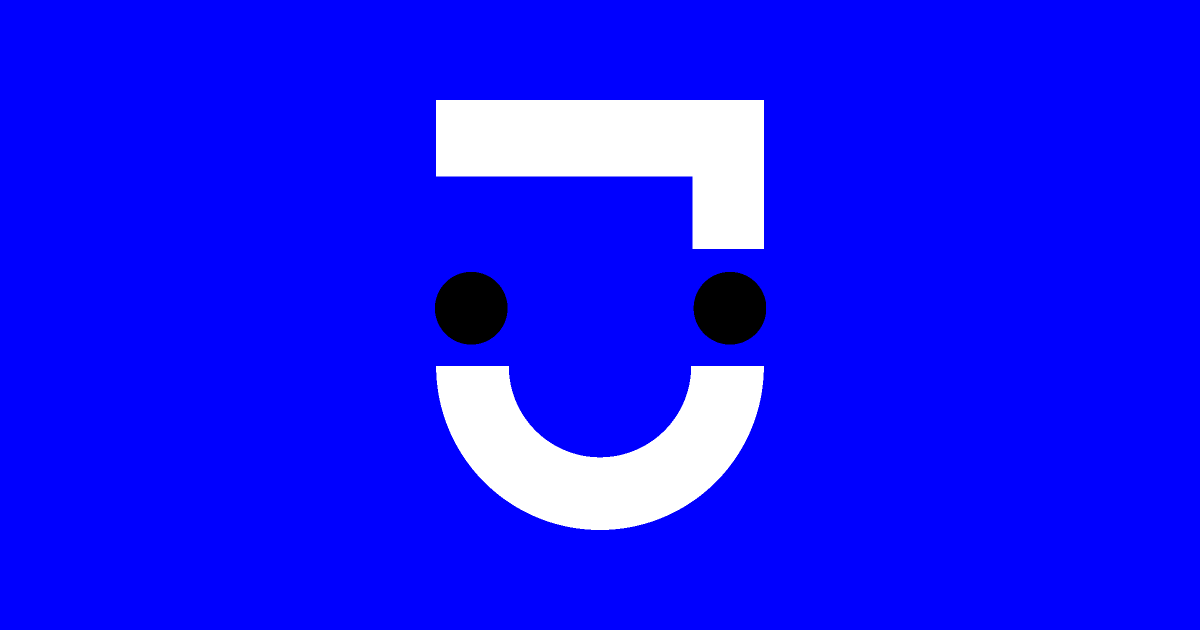
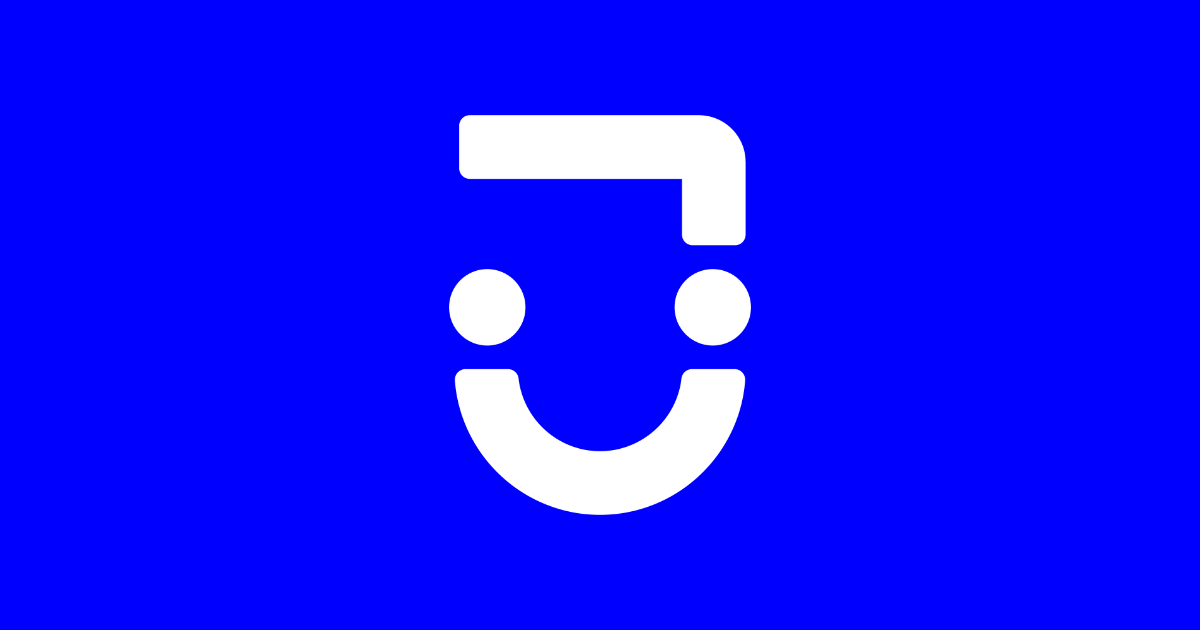
Adota o logotipo oficial da marca e corrige o gênero de Jogamos
- Substitui o símbolo que eu havia desenhado em SVG pelo arquivo oficial
  (Ativo 7, versão branca). O oficial tem cantos arredondados; o meu
  desenho tinha cantos retos, o que descaracterizava a marca.
- Wordmark passa de Archivo para Poppins, que reproduz o desenho
  geométrico do logotipo. Carregada com subset de caracteres (~2 KB).
- Favicon e imagem de compartilhamento regerados a partir do símbolo oficial.
- Jogamos passa a ser tratado no masculino em toda a página: artigos,
  contrações (da/pela) e concordância de adjetivos ('não é afiliada'
  vira 'não é afiliado'; 'não é a vendedora' vira 'não é o vendedor').
- 'por um preço que valha' vira 'por um preço bom'.
- Aspas do JSON-LD alinhadas com o texto visível, para o FAQ do Google.

Changed region(s): [[0.3392, 0.1508, 0.6475, 0.8444], [0.4625, 0.6635, 0.555, 0.7238], [0.4317, 0.6333, 0.4625, 0.6937]]

diff --git a/index.html b/index.html
@@ -7,7 +7,7 @@
 
 <!-- ============================ SEO / META ============================ -->
 <title>Grupo de Ofertas no WhatsApp | Jogamos Shop</title>
-<meta name="description" content="Entre no grupo de ofertas da Jogamos Shop no WhatsApp e receba promoções de tênis, chuteiras, bolas e acessórios esportivos direto no seu celular. Entrada gratuita.">
+<meta name="description" content="Entre no grupo de ofertas do Jogamos Shop no WhatsApp e receba promoções de tênis, chuteiras, bolas e acessórios esportivos direto no seu celular. Entrada gratuita.">
 <meta name="robots" content="index, follow, max-image-preview:large, max-snippet:-1">
 <meta name="author" content="Jogamos Shop">
 
@@ -30,14 +30,15 @@
 <meta name="twitter:description" content="Ofertas, novidades e oportunidades de material esportivo direto no seu WhatsApp. Entrada gratuita.">
 <meta name="twitter:image" content="https://jogamos-shop.vercel.app/assets/img/og-jogamos-shop.png">
 
-<link rel="icon" href="assets/img/favicon.svg" type="image/svg+xml">
-<link rel="apple-touch-icon" href="assets/img/jogamos-mark.png">
+<link rel="icon" href="assets/img/favicon.png" type="image/png" sizes="512x512">
+<link rel="apple-touch-icon" href="assets/img/favicon.png">
 
 <!-- ====================== FONTES (crítico, 1 request) ================== -->
 <link rel="preconnect" href="https://fonts.googleapis.com">
 <link rel="preconnect" href="https://fonts.gstatic.com" crossorigin>
 <link rel="preload" as="style" href="https://fonts.googleapis.com/css2?family=Archivo:wdth,wght@75..100,400..900&family=Inter:wght@400;500;600&display=swap">
 <link rel="stylesheet" href="https://fonts.googleapis.com/css2?family=Archivo:wdth,wght@75..100,400..900&family=Inter:wght@400;500;600&display=swap">
+<link rel="stylesheet" href="https://fonts.googleapis.com/css2?family=Poppins:wght@700&text=jogamshp&display=swap">
 
 <link rel="stylesheet" href="assets/css/style.css">
 
@@ -54,11 +55,11 @@
       "url": "https://jogamos-shop.vercel.app/",
       "logo": {
         "@type": "ImageObject",
-        "url": "https://jogamos-shop.vercel.app/assets/img/jogamos-mark.png",
+        "url": "https://jogamos-shop.vercel.app/assets/img/favicon.png",
         "width": 1000,
         "height": 1000
       },
-      "description": "Curadoria de produtos esportivos e comunidade de esporte em grupo. A Jogamos Shop reúne ofertas, novidades e recomendações de material esportivo em um grupo no WhatsApp.",
+      "description": "Curadoria de produtos esportivos e comunidade de esporte em grupo. O Jogamos Shop reúne ofertas, novidades e recomendações de material esportivo em um grupo no WhatsApp.",
       "email": "appjogamos@gmail.com",
       "areaServed": { "@type": "Country", "name": "Brasil" },
       "address": {
@@ -86,7 +87,7 @@
       "@id": "https://jogamos-shop.vercel.app/#webpage",
       "url": "https://jogamos-shop.vercel.app/",
       "name": "Grupo de Ofertas no WhatsApp | Jogamos Shop",
-      "description": "Entre no grupo de ofertas da Jogamos Shop no WhatsApp e receba promoções de material esportivo direto no seu celular.",
+      "description": "Entre no grupo de ofertas do Jogamos Shop no WhatsApp e receba promoções de material esportivo direto no seu celular.",
       "isPartOf": { "@id": "https://jogamos-shop.vercel.app/#website" },
       "about": { "@id": "https://jogamos-shop.vercel.app/#organization" },
       "inLanguage": "pt-BR"
@@ -104,17 +105,17 @@
       "mainEntity": [
         {
           "@type": "Question",
-          "name": "O que é o grupo da Jogamos Shop?",
-          "acceptedAnswer": { "@type": "Answer", "text": "É um grupo no WhatsApp criado pela Jogamos Shop para reunir em um só lugar ofertas, lançamentos e recomendações de produtos esportivos. Em vez de você procurar promoção em vários sites, as oportunidades chegam direto no seu celular." }
+          "name": "O que é o grupo do Jogamos Shop?",
+          "acceptedAnswer": { "@type": "Answer", "text": "É um grupo no WhatsApp criado pelo Jogamos Shop para reunir em um só lugar ofertas, lançamentos e recomendações de produtos esportivos. Em vez de você procurar promoção em vários sites, as oportunidades chegam direto no seu celular." }
         },
         {
           "@type": "Question",
           "name": "Como faço para entrar no grupo de ofertas?",
-          "acceptedAnswer": { "@type": "Answer", "text": "Toque em qualquer botão \"Entrar no grupo do WhatsApp\" desta página. Você vai direto para o convite do grupo e entra com um toque. Não precisa preencher formulário nem informar e-mail." }
+          "acceptedAnswer": { "@type": "Answer", "text": "Toque em qualquer botão “Entrar no grupo do WhatsApp” desta página. Você vai direto para o convite do grupo e entra com um toque. Não precisa preencher formulário nem informar e-mail." }
         },
         {
           "@type": "Question",
-          "name": "O grupo da Jogamos Shop é gratuito?",
+          "name": "O grupo do Jogamos Shop é gratuito?",
           "acceptedAnswer": { "@type": "Answer", "text": "Sim. Entrar e permanecer no grupo é gratuito. Você não paga nada para receber as ofertas e pode sair quando quiser." }
         },
         {
@@ -125,17 +126,17 @@
         {
           "@type": "Question",
           "name": "Vou receber muitas mensagens?",
-          "acceptedAnswer": { "@type": "Answer", "text": "Não. O grupo é moderado: só a equipe da Jogamos Shop publica, e apenas quando existe algo realmente relevante. Você também pode silenciar as notificações e conferir quando quiser." }
+          "acceptedAnswer": { "@type": "Answer", "text": "Não. O grupo é moderado: só a equipe do Jogamos Shop publica, e apenas quando existe algo realmente relevante. Você também pode silenciar as notificações e conferir quando quiser." }
         },
         {
           "@type": "Question",
           "name": "Como faço para sair do grupo?",
-          "acceptedAnswer": { "@type": "Answer", "text": "Abra a conversa no WhatsApp, toque no nome do grupo e escolha \"Sair do grupo\". A saída é imediata e você pode voltar depois usando o link desta página." }
+          "acceptedAnswer": { "@type": "Answer", "text": "Abra a conversa no WhatsApp, toque no nome do grupo e escolha “Sair do grupo”. A saída é imediata e você pode voltar depois usando o link desta página." }
         },
         {
           "@type": "Question",
-          "name": "Onde encontro as novidades da Jogamos Shop?",
-          "acceptedAnswer": { "@type": "Answer", "text": "No grupo do WhatsApp, que recebe tudo primeiro, e no Instagram @jogamosshop. A Jogamos Shop faz parte da Jogamos, comunidade esportiva de Belo Horizonte." }
+          "name": "Onde encontro as novidades do Jogamos Shop?",
+          "acceptedAnswer": { "@type": "Answer", "text": "No grupo do WhatsApp, que recebe tudo primeiro, e no Instagram @jogamosshop. O Jogamos Shop faz parte do Jogamos, comunidade esportiva de Belo Horizonte." }
         }
       ]
     }
@@ -153,12 +154,7 @@
 <header class="nav" id="nav">
   <div class="nav__in">
     <a class="brand" href="#topo" aria-label="Jogamos Shop — início">
-      <svg class="mark" viewBox="0 0 1000 1000" aria-hidden="true" focusable="false">
-        <path class="mark__a" d="M234 146 H766 V388 H650 V270 H234 Z"/>
-        <path class="mark__a" d="M293 578 A207 207 0 0 0 707 578" fill="none" stroke-width="118"/>
-        <circle class="mark__b" cx="291" cy="484" r="59"/>
-        <circle class="mark__b" cx="711" cy="484" r="59"/>
-      </svg>
+      <img class="mark" src="assets/img/logo-simbolo.png" alt="" width="96" height="128" aria-hidden="true" decoding="async">
       <span class="brand__txt">Jogamos<i>Shop</i></span>
     </a>
 
@@ -202,7 +198,7 @@
     </h1>
 
     <p class="hero__lede">
-      A <strong>Jogamos Shop</strong> mantém um grupo no WhatsApp onde ofertas,
+      O <strong>Jogamos Shop</strong> mantém um grupo no WhatsApp onde ofertas,
       lançamentos e oportunidades de material esportivo chegam primeiro.
       Sem caçar promoção em dez sites. Sem perder o que era bom.
     </p>
@@ -247,9 +243,9 @@
     <div class="idea__body">
       <div class="idea__txt" data-reveal>
         <p>
-          A Jogamos nasceu de gente que corre, joga e treina junta em BH.
+          O Jogamos nasceu de gente que corre, joga e treina junta em BH.
           E toda semana aparecia a mesma pergunta no meio do grupo:
-          <em>“onde eu acho isso por um preço que valha?”</em>
+          <em>“onde eu acho isso por um preço bom?”</em>
         </p>
         <p>
           O grupo do WhatsApp é a resposta. Um canal só para quando surge
@@ -375,7 +371,7 @@
     </h2>
 
     <p class="proof__lede" data-reveal>
-      A Jogamos Shop faz parte da <strong>Jogamos</strong>, comunidade esportiva de
+      O Jogamos Shop faz parte do <strong>Jogamos</strong>, comunidade esportiva de
       Belo Horizonte que organiza corridas leves, jogos e treinos abertos —
       para quem quer começar ou recomeçar. O grupo de ofertas é a extensão
       natural disso: gente do esporte indicando coisa boa para gente do esporte.
@@ -483,12 +479,7 @@
       <div class="phone__body">
         <div class="phone__notch"></div>
         <div class="phone__bar">
-          <svg class="mark mark--tiny" viewBox="0 0 1000 1000">
-            <path class="mark__a" d="M234 146 H766 V388 H650 V270 H234 Z"/>
-            <path class="mark__a" d="M293 578 A207 207 0 0 0 707 578" fill="none" stroke-width="118"/>
-            <circle class="mark__b" cx="291" cy="484" r="59"/>
-            <circle class="mark__b" cx="711" cy="484" r="59"/>
-          </svg>
+          <img class="mark mark--tiny" src="assets/img/logo-simbolo.png" alt="" width="96" height="128" aria-hidden="true" decoding="async">
           <span><b>Jogamos Shop · Ofertas</b><i>online</i></span>
         </div>
         <div class="phone__feed">
@@ -522,15 +513,15 @@
 
     <div class="acc" id="acc">
       <div class="acc__i">
-        <h3><button type="button" class="acc__q" aria-expanded="false" aria-controls="a1" id="q1">O que é o grupo da Jogamos Shop?<span class="acc__ico" aria-hidden="true"></span></button></h3>
-        <div class="acc__a" id="a1" role="region" aria-labelledby="q1"><div><p>É um grupo no WhatsApp criado pela Jogamos Shop para reunir em um só lugar ofertas, lançamentos e recomendações de produtos esportivos. Em vez de você procurar promoção em vários sites, as oportunidades chegam direto no seu celular.</p></div></div>
+        <h3><button type="button" class="acc__q" aria-expanded="false" aria-controls="a1" id="q1">O que é o grupo do Jogamos Shop?<span class="acc__ico" aria-hidden="true"></span></button></h3>
+        <div class="acc__a" id="a1" role="region" aria-labelledby="q1"><div><p>É um grupo no WhatsApp criado pelo Jogamos Shop para reunir em um só lugar ofertas, lançamentos e recomendações de produtos esportivos. Em vez de você procurar promoção em vários sites, as oportunidades chegam direto no seu celular.</p></div></div>
       </div>
       <div class="acc__i">
         <h3><button type="button" class="acc__q" aria-expanded="false" aria-controls="a2" id="q2">Como faço para entrar no grupo de ofertas?<span class="acc__ico" aria-hidden="true"></span></button></h3>
         <div class="acc__a" id="a2" role="region" aria-labelledby="q2"><div><p>Toque em qualquer botão “Entrar no grupo do WhatsApp” desta página. Você vai direto para o convite do grupo e entra com um toque. Não precisa preencher formulário nem informar e-mail.</p></div></div>
       </div>
       <div class="acc__i">
-        <h3><button type="button" class="acc__q" aria-expanded="false" aria-controls="a3" id="q3">O grupo da Jogamos Shop é gratuito?<span class="acc__ico" aria-hidden="true"></span></button></h3>
+        <h3><button type="button" class="acc__q" aria-expanded="false" aria-controls="a3" id="q3">O grupo do Jogamos Shop é gratuito?<span class="acc__ico" aria-hidden="true"></span></button></h3>
         <div class="acc__a" id="a3" role="region" aria-labelledby="q3"><div><p>Sim. Entrar e permanecer no grupo é gratuito. Você não paga nada para receber as ofertas e pode sair quando quiser.</p></div></div>
       </div>
       <div class="acc__i">
@@ -539,15 +530,15 @@
       </div>
       <div class="acc__i">
         <h3><button type="button" class="acc__q" aria-expanded="false" aria-controls="a5" id="q5">Vou receber muitas mensagens?<span class="acc__ico" aria-hidden="true"></span></button></h3>
-        <div class="acc__a" id="a5" role="region" aria-labelledby="q5"><div><p>Não. O grupo é moderado: só a equipe da Jogamos Shop publica, e apenas quando existe algo realmente relevante. Você também pode silenciar as notificações e conferir quando quiser.</p></div></div>
+        <div class="acc__a" id="a5" role="region" aria-labelledby="q5"><div><p>Não. O grupo é moderado: só a equipe do Jogamos Shop publica, e apenas quando existe algo realmente relevante. Você também pode silenciar as notificações e conferir quando quiser.</p></div></div>
       </div>
       <div class="acc__i">
         <h3><button type="button" class="acc__q" aria-expanded="false" aria-controls="a6" id="q6">Como faço para sair do grupo?<span class="acc__ico" aria-hidden="true"></span></button></h3>
         <div class="acc__a" id="a6" role="region" aria-labelledby="q6"><div><p>Abra a conversa no WhatsApp, toque no nome do grupo e escolha “Sair do grupo”. A saída é imediata e você pode voltar depois usando o link desta página.</p></div></div>
       </div>
       <div class="acc__i">
-        <h3><button type="button" class="acc__q" aria-expanded="false" aria-controls="a7" id="q7">Onde encontro as novidades da Jogamos Shop?<span class="acc__ico" aria-hidden="true"></span></button></h3>
-        <div class="acc__a" id="a7" role="region" aria-labelledby="q7"><div><p>No grupo do WhatsApp, que recebe tudo primeiro, e no Instagram <a data-ig href="https://www.instagram.com/jogamosshop/" target="_blank" rel="noopener">@jogamosshop</a>. A Jogamos Shop faz parte da Jogamos, comunidade esportiva de Belo Horizonte.</p></div></div>
+        <h3><button type="button" class="acc__q" aria-expanded="false" aria-controls="a7" id="q7">Onde encontro as novidades do Jogamos Shop?<span class="acc__ico" aria-hidden="true"></span></button></h3>
+        <div class="acc__a" id="a7" role="region" aria-labelledby="q7"><div><p>No grupo do WhatsApp, que recebe tudo primeiro, e no Instagram <a data-ig href="https://www.instagram.com/jogamosshop/" target="_blank" rel="noopener">@jogamosshop</a>. O Jogamos Shop faz parte do Jogamos, comunidade esportiva de Belo Horizonte.</p></div></div>
       </div>
     </div>
   </div>
@@ -582,12 +573,7 @@
   <div class="wrap foot__in">
     <div class="foot__brand">
       <a class="brand" href="#topo" aria-label="Jogamos Shop — voltar ao topo">
-        <svg class="mark" viewBox="0 0 1000 1000" aria-hidden="true" focusable="false">
-          <path class="mark__a" d="M234 146 H766 V388 H650 V270 H234 Z"/>
-          <path class="mark__a" d="M293 578 A207 207 0 0 0 707 578" fill="none" stroke-width="118"/>
-          <circle class="mark__b" cx="291" cy="484" r="59"/>
-          <circle class="mark__b" cx="711" cy="484" r="59"/>
-        </svg>
+        <img class="mark" src="assets/img/logo-simbolo.png" alt="" width="96" height="128" aria-hidden="true" decoding="async">
         <span class="brand__txt">Jogamos<i>Shop</i></span>
       </a>
       <p>Conectamos você ao esporte.<br>Belo Horizonte · MG</p>
@@ -624,7 +610,7 @@
 
   <div class="wrap foot__end">
     <p><span id="year">2026</span> Jogamos Shop. Todos os direitos reservados.</p>
-    <p>Jogamos Shop não é afiliada ao WhatsApp ou à Meta Platforms, Inc.</p>
+    <p>Jogamos Shop não é afiliado ao WhatsApp ou à Meta Platforms, Inc.</p>
   </div>
 </footer>
 

diff --git a/termos-de-uso.html b/termos-de-uso.html
@@ -4,13 +4,14 @@
 <meta charset="UTF-8">
 <meta name="viewport" content="width=device-width, initial-scale=1">
 <title>Termos de Uso | Jogamos Shop</title>
-<meta name="description" content="Termos de uso da página e do grupo de ofertas no WhatsApp da Jogamos Shop.">
+<meta name="description" content="Termos de uso da página e do grupo de ofertas no WhatsApp do Jogamos Shop.">
 <meta name="robots" content="index, follow">
 <link rel="canonical" href="https://jogamos-shop.vercel.app/termos-de-uso.html">
-<link rel="icon" href="assets/img/favicon.svg" type="image/svg+xml">
+<link rel="icon" href="assets/img/favicon.png" type="image/png" sizes="512x512">
 <link rel="preconnect" href="https://fonts.googleapis.com">
 <link rel="preconnect" href="https://fonts.gstatic.com" crossorigin>
 <link rel="stylesheet" href="https://fonts.googleapis.com/css2?family=Archivo:wdth,wght@75..100,400..900&family=Inter:wght@400;500;600&display=swap">
+<link rel="stylesheet" href="https://fonts.googleapis.com/css2?family=Poppins:wght@700&text=jogamshp&display=swap">
 <link rel="stylesheet" href="assets/css/style.css">
 </head>
 <body>
@@ -18,11 +19,7 @@
 <header class="nav is-stuck">
   <div class="nav__in">
     <a class="brand" href="index.html" aria-label="Jogamos Shop — início">
-      <svg class="mark" viewBox="0 0 1000 1000" aria-hidden="true">
-        <path class="mark__a" d="M234 146 H766 V388 H650 V270 H234 Z"/>
-        <path class="mark__a" d="M293 578 A207 207 0 0 0 707 578" fill="none" stroke-width="118"/>
-        <circle class="mark__b" cx="291" cy="484" r="59"/><circle class="mark__b" cx="711" cy="484" r="59"/>
-      </svg>
+      <img class="mark" src="assets/img/logo-simbolo.png" alt="" width="96" height="128" aria-hidden="true" decoding="async">
       <span class="brand__txt">Jogamos<i>Shop</i></span>
     </a>
     <a class="btn btn--wa btn--sm" data-wa href="https://chat.whatsapp.com/IylWMlh44Us2kKs3klrIwn" target="_blank" rel="noopener">
@@ -37,13 +34,13 @@
     <p class="updated">Última atualização: 21 de agosto de 2026</p>
 
     <p style="margin-top:28px">
-      Ao usar esta página e ao entrar no grupo de ofertas da Jogamos Shop no
+      Ao usar esta página e ao entrar no grupo de ofertas do Jogamos Shop no
       WhatsApp, você concorda com os termos abaixo.
     </p>
 
-    <h2>1. O que é a Jogamos Shop</h2>
+    <h2>1. O que é o Jogamos Shop</h2>
     <p>
-      A Jogamos Shop é a frente de curadoria de produtos esportivos da
+      O Jogamos Shop é a frente de curadoria de produtos esportivos da
       <span class="fill">PREENCHER: razão social</span>, CNPJ
       <span class="fill">PREENCHER: CNPJ</span>, ligada à comunidade esportiva
       Jogamos, de Belo Horizonte/MG.
@@ -52,7 +49,7 @@
     <h2>2. Natureza do conteúdo</h2>
     <p>
       As publicações do grupo são recomendações e divulgações de ofertas de
-      produtos esportivos. A Jogamos Shop <strong>não é a vendedora</strong> dos
+      produtos esportivos. O Jogamos Shop <strong>não é o vendedor</strong> dos
       produtos divulgados, salvo quando isso for indicado de forma expressa.
     </p>
     <p>
@@ -94,14 +91,14 @@
 
     <h2>7. Limitação de responsabilidade</h2>
     <p>
-      A Jogamos Shop se esforça para divulgar informações corretas, mas não
+      O Jogamos Shop se esforça para divulgar informações corretas, mas não
       responde por erros de preço ou descrição publicados pelas lojas, nem por
       indisponibilidade dos sites de terceiros.
     </p>
 
     <h2>8. Relação com o WhatsApp</h2>
     <p>
-      A Jogamos Shop não é afiliada, patrocinada nem endossada pelo WhatsApp ou
+      O Jogamos Shop não é afiliado, patrocinado nem endossado pelo WhatsApp ou
       pela Meta Platforms, Inc. O uso do aplicativo segue os termos da própria Meta.
     </p>
 

diff --git a/politica-de-privacidade.html b/politica-de-privacidade.html
@@ -4,13 +4,14 @@
 <meta charset="UTF-8">
 <meta name="viewport" content="width=device-width, initial-scale=1">
 <title>Política de Privacidade | Jogamos Shop</title>
-<meta name="description" content="Política de privacidade da Jogamos Shop: quais dados são tratados nesta página e no grupo de ofertas do WhatsApp.">
+<meta name="description" content="Política de privacidade do Jogamos Shop: quais dados são tratados nesta página e no grupo de ofertas do WhatsApp.">
 <meta name="robots" content="index, follow">
 <link rel="canonical" href="https://jogamos-shop.vercel.app/politica-de-privacidade.html">
-<link rel="icon" href="assets/img/favicon.svg" type="image/svg+xml">
+<link rel="icon" href="assets/img/favicon.png" type="image/png" sizes="512x512">
 <link rel="preconnect" href="https://fonts.googleapis.com">
 <link rel="preconnect" href="https://fonts.gstatic.com" crossorigin>
 <link rel="stylesheet" href="https://fonts.googleapis.com/css2?family=Archivo:wdth,wght@75..100,400..900&family=Inter:wght@400;500;600&display=swap">
+<link rel="stylesheet" href="https://fonts.googleapis.com/css2?family=Poppins:wght@700&text=jogamshp&display=swap">
 <link rel="stylesheet" href="assets/css/style.css">
 </head>
 <body>
@@ -18,11 +19,7 @@
 <header class="nav is-stuck">
   <div class="nav__in">
     <a class="brand" href="index.html" aria-label="Jogamos Shop — início">
-      <svg class="mark" viewBox="0 0 1000 1000" aria-hidden="true">
-        <path class="mark__a" d="M234 146 H766 V388 H650 V270 H234 Z"/>
-        <path class="mark__a" d="M293 578 A207 207 0 0 0 707 578" fill="none" stroke-width="118"/>
-        <circle class="mark__b" cx="291" cy="484" r="59"/><circle class="mark__b" cx="711" cy="484" r="59"/>
-      </svg>
+      <img class="mark" src="assets/img/logo-simbolo.png" alt="" width="96" height="128" aria-hidden="true" decoding="async">
       <span class="brand__txt">Jogamos<i>Shop</i></span>
     </a>
     <a class="btn btn--wa btn--sm" data-wa href="https://chat.whatsapp.com/IylWMlh44Us2kKs3klrIwn" target="_blank" rel="noopener">
@@ -37,7 +34,7 @@
     <p class="updated">Última atualização: 21 de agosto de 2026</p>
 
     <p style="margin-top:28px">
-      Esta política explica como a Jogamos Shop trata dados pessoais nesta página
+      Esta política explica como o Jogamos Shop trata dados pessoais nesta página
       e no grupo de ofertas do WhatsApp, de acordo com a Lei nº 13.709/2018 (LGPD).
     </p>
 
@@ -73,7 +70,7 @@
       Platforms, Inc., segundo a política de privacidade do WhatsApp.
     </p>
     <p>
-      A Jogamos Shop não exporta, vende nem compartilha a lista de participantes
+      O Jogamos Shop não exporta, vende nem compartilha a lista de participantes
       com terceiros. Você pode sair do grupo a qualquer momento, e a saída é imediata.
     </p>
 

diff --git a/assets/css/style.css b/assets/css/style.css
@@ -135,14 +135,16 @@ section{position:relative}
 .note b{color:var(--glow)}
 
 /* ----------------------------------------------------------------- MARCA */
-.mark{width:100%;height:100%}
-.mark__a{fill:var(--blue-lift);stroke:var(--blue-lift)}
-.mark__b{fill:var(--ink)}
+/* Símbolo oficial da marca (Ativo 7 — versão branca, para fundo escuro).
+   Proporção original 96x128; a altura manda e a largura acompanha. */
+.mark{width:auto;height:100%;flex:none}
 
-.brand{display:inline-flex;align-items:center;gap:9px}
-.brand .mark{width:26px;height:26px;flex:none}
+.brand{display:inline-flex;align-items:center;gap:10px}
+.brand .mark{height:26px;width:auto}
 .brand__txt{
-  font-family:var(--f-disp);font-weight:800;font-size:.96rem;
+  /* Poppins reproduz o wordmark geométrico oficial da marca.
+     Carregada só com os caracteres de "jogamos shop" (~2 KB). */
+  font-family:"Poppins",var(--f-disp);font-weight:700;font-size:1rem;
   letter-spacing:-.02em;text-transform:lowercase;line-height:1;
 }
 .brand__txt i{font-style:normal;color:var(--glow);margin-left:.22em}
@@ -657,7 +659,7 @@ section{position:relative}
   display:flex;align-items:center;gap:9px;flex:none;
   padding:16px 8px 12px;border-bottom:1px solid var(--line-2);
 }
-.mark--tiny{width:22px;height:22px;flex:none}
+.mark--tiny{height:22px;width:auto;flex:none}
 .phone__bar span{display:flex;flex-direction:column;line-height:1.25}
 .phone__bar b{font-size:.72rem;font-weight:600}
 .phone__bar i{font-style:normal;font-size:.6rem;color:var(--wa)}
